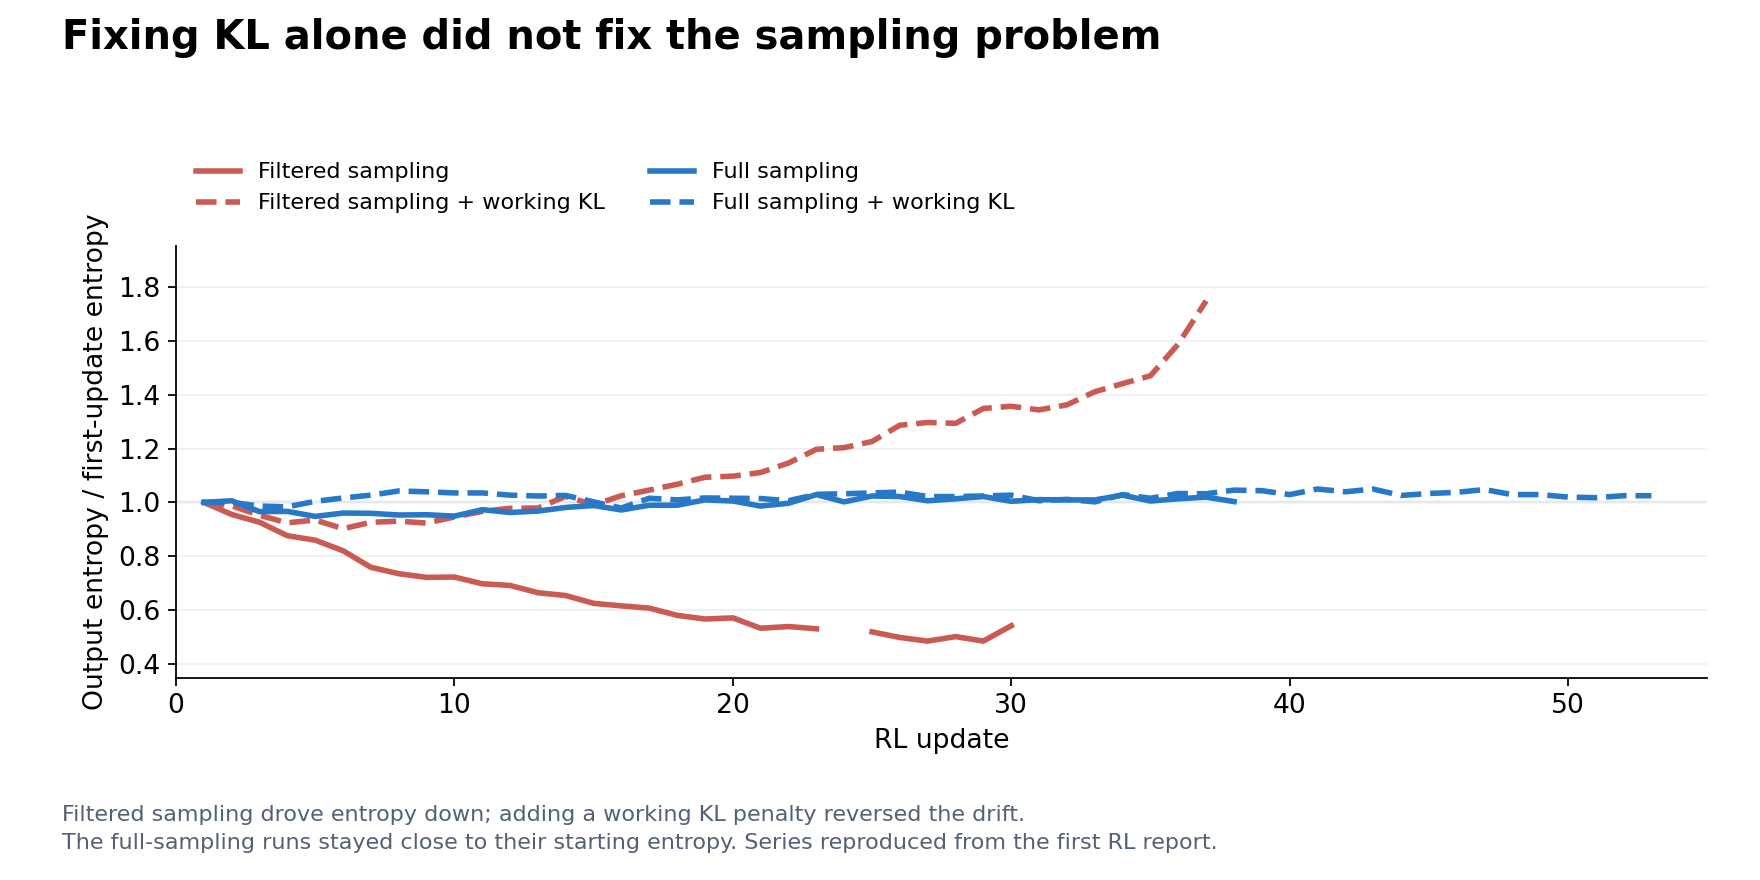
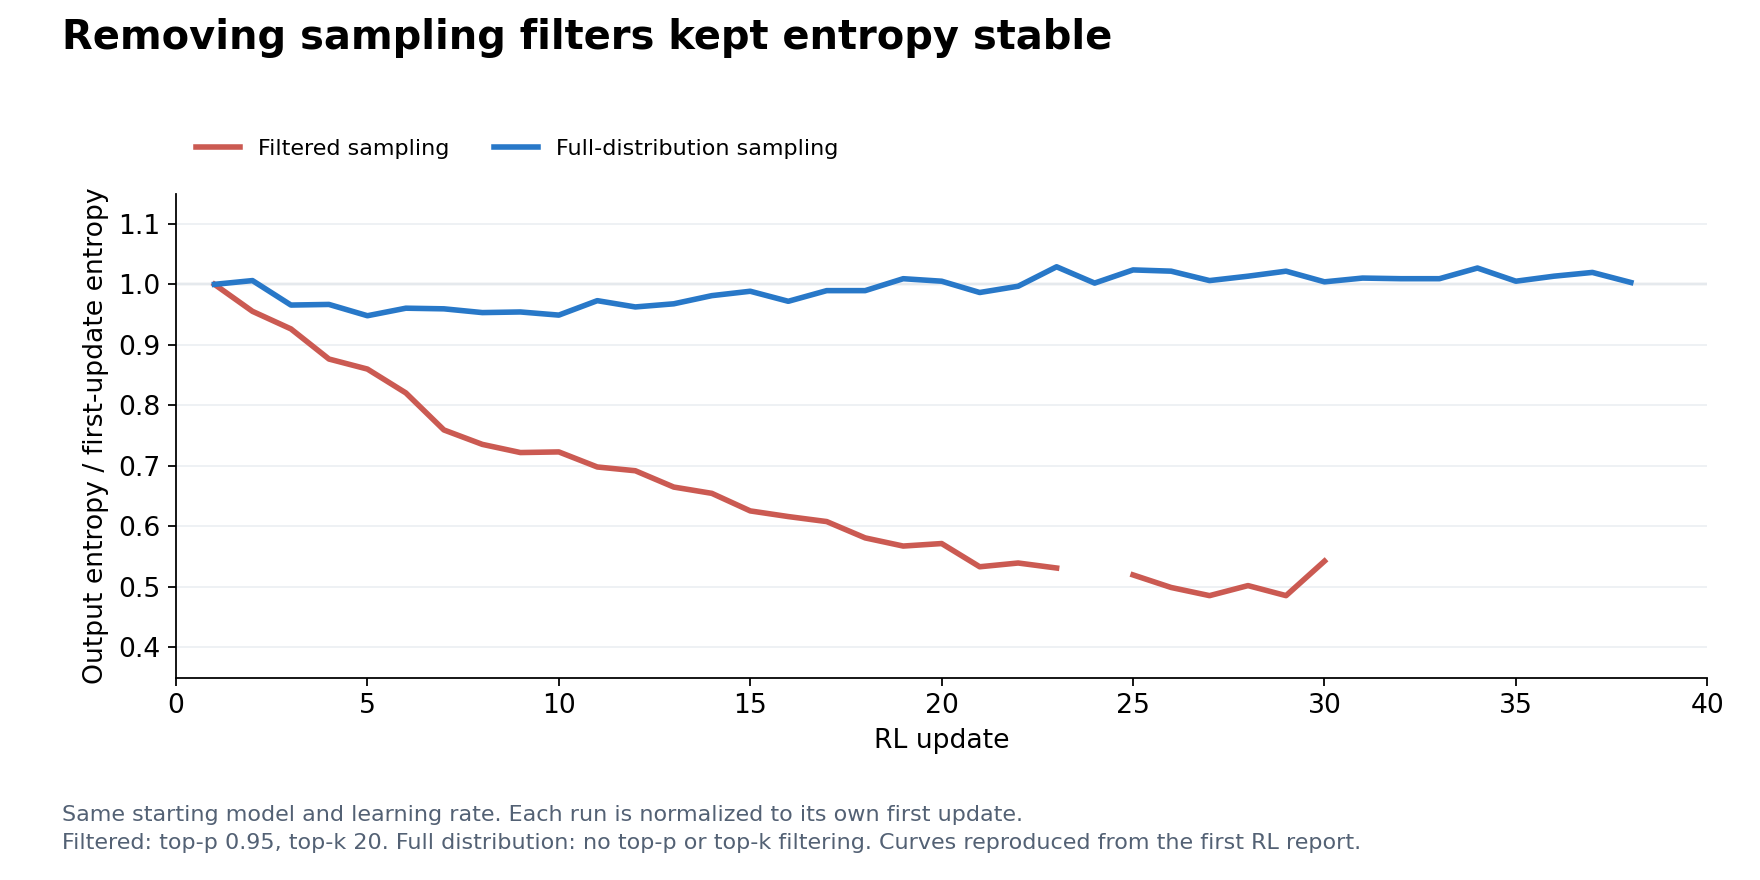
Explain the sampling mismatch behind entropy collapse

diff --git a/_posts/2026-10-21-turning-snowball-into-a-coding-agent.md b/_posts/2026-10-21-turning-snowball-into-a-coding-agent.md
@@ -82,19 +82,25 @@ The corpus also retained unfinished trajectories: 70% of its medium-difficulty s
 
 ### Diagnosing Entropy Collapse
 
-Early runs could look promising and then lose their held-out gains. Training reward alone did not make the problem obvious. Output entropy, the spread of the model's next-token predictions, fell to about half its starting value in one run.
+Early RL runs improved and then lost their held-out gains while training reward kept rising. In one run, output entropy fell to about half its starting value. Snowball's predictions were becoming increasingly concentrated. Lowering the learning rate delayed the failure without resolving it.
 
-The rollout engine was filtering tokens with top-p and top-k, also called truncated sampling, but returning probabilities from the full distribution. The trainer's probability accounting did not describe how the tokens were sampled. Separately, the KL penalty was being logged without contributing a gradient.
+The problem was a disagreement between how we generated rollouts and how we trained on them. The rollout engine used top-p and top-k sampling, which removed lower-probability tokens and redistributed their probability among the remaining choices. But it reported probabilities from before that filtering. A token with 5% probability could, for example, be sampled 10% of the time after filtering while still being reported as 5%.
 
-Fixing KL alone did not rescue the run: entropy eventually rose to 1.75× its starting value instead, while held-out performance deteriorated. Removing the sampling filters produced runs whose entropy stayed near its starting level. Lowering the learning rate had delayed failure.
+Those probabilities matter because the trainer uses them to correct for differences between the policy generating the data and the policy being updated. Here, that correction did not describe the actual sampling process. Tokens outside the retained set also had no chance of being explored. As predictions became more concentrated, filtering could narrow the available choices further.
+
+Our engine-versus-trainer checks looked healthy because both used the same unfiltered probabilities. Those checks established numerical agreement, but did not check whether the probabilities matched the distribution that actually generated the tokens.
+
+Disabling top-p and top-k removed the exploration restriction and made sampling agree with the full-distribution probabilities used by the trainer. The run continued past the earlier collapse point, with entropy staying near its starting level. An upstream [guardrail (#525)](https://github.com/marin-community/MarinSkyRL/pull/525) now rejects sampling settings the trainer cannot reproduce.
+
+Settings that work for generating answers deserve another look when those answers become RL training data.
 
 <figure class="research-figure">
-<a href="{{ '/assets/img/snowball/entropy-debugging.png' | relative_url }}"><img src="{{ '/assets/img/snowball/entropy-debugging.png' | relative_url }}" alt="Entropy fell under filtered sampling, rose when only KL was repaired, and stayed stable under full-distribution sampling." width="1760" height="880" loading="lazy"></a>
-<figcaption>Solid lines omit a working KL penalty; dashed lines include one. Red uses filtered sampling; blue samples the full distribution. This comparison explains the two sampling recipes in the results below. Entropy was a diagnostic here, not a replacement for held-out evaluation.</figcaption>
+<a href="{{ '/assets/img/snowball/entropy-debugging.png' | relative_url }}"><img src="{{ '/assets/img/snowball/entropy-debugging.png' | relative_url }}" alt="Filtered sampling reduced entropy to about half its initial value, while full-distribution sampling stayed near its starting level." width="1760" height="880" loading="lazy"></a>
+<figcaption>The same starting model and learning rate, changing only the sampling settings. Each curve is normalized to its own first update. Entropy stayed stable through update 38 with full-distribution sampling. Curves reproduced from the first RL report.</figcaption>
 </figure>
 
 <aside class="research-reports" markdown="1">
-[Full report](https://gist.github.com/lukedhlee/9c19fd9288a94ecfd1dbd6906b0a8dda) · [KL gradient fix (#517)](https://github.com/marin-community/MarinSkyRL/pull/517) · [Temperature-scaled probability accounting (#519)](https://github.com/marin-community/MarinSkyRL/pull/519) · [Sampling-filter guardrail (#525)](https://github.com/marin-community/MarinSkyRL/pull/525).
+[Full report](https://gist.github.com/lukedhlee/9c19fd9288a94ecfd1dbd6906b0a8dda).
 </aside>
 
 ### Fixing the Training Stack
